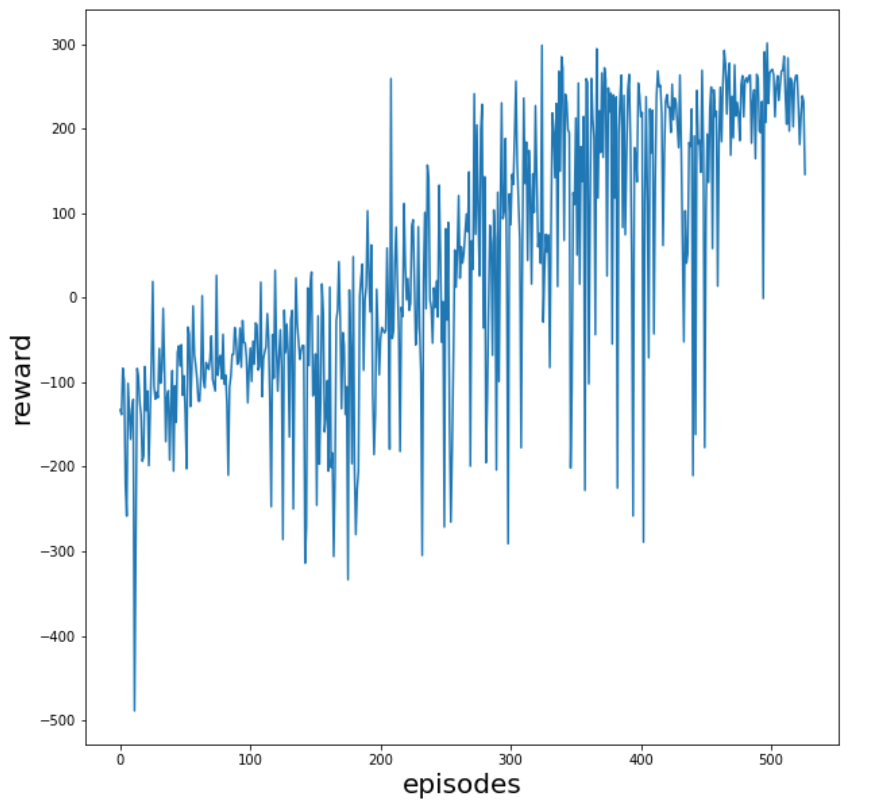
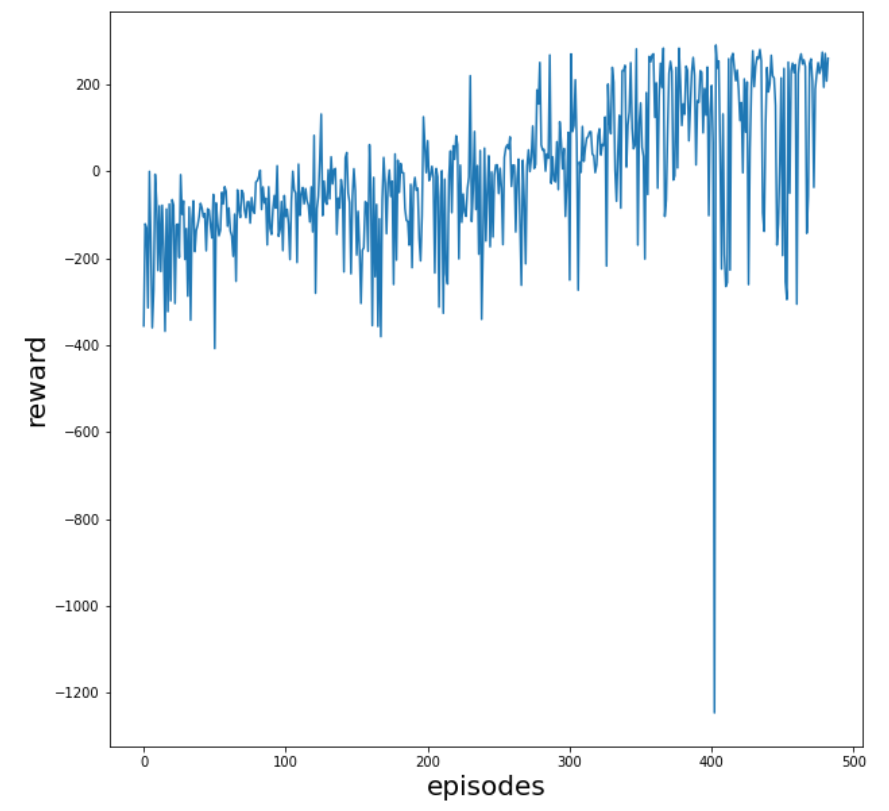
update graph

diff --git a/readme.md b/readme.md
@@ -1,5 +1,7 @@
 # Mini Projet 4 IAT : Deep Reinforcement Learning
 
+[![Open In Colab](https://colab.research.google.com/assets/colab-badge.svg)](https://colab.research.google.com/github/aballiet/RL-LunarLander-v2/)
+
 Pendant les cours d'IAT (Intelligence Artificielle pour les Télécoms), nous avons abordé les approches d'apprentissage par renforcement à travers les cours de Jilles DIBANGOYE et les travaux dirigés de Mathieu GOUTAY. 
 
 Ces approches, notamment avec le **Q-Learning** permettent d'apprendre les actions à prendre, à partir d'expériences, de façon à optimiser une récompense quantitative au cours du temps. 
@@ -13,6 +15,8 @@ Le but de ce projet est de faire atterrir une fusée sur la lune en contrôlant 
 <p align="center">
     <img  src="./ressources/landing.gif"  alt="lunar_environnement" width="500">
 </p>
+
+> Résultat obtenu après 391 épisodes d'apprentissage avec un double DQN
 
 L'environnement est donné par [gym](https://gym.openai.com/) avec [LunarLander-v2](https://gym.openai.com/envs/LunarLander-v2/) et intègre déjà le système de récompense (rewards) de nos actions.
 
@@ -43,7 +47,7 @@ for episode in range(nb_episodes):
     state = env.sense()	# retrieve initial state
     
     for step in range(nb_steps):
-        
+
         # predict best action according to state 
         action = predict(state)
         
@@ -81,20 +85,19 @@ Ici on utilise un réseau à 3 couches :
 ```python
 #Create and initialize the online DQN
 	self.DQN_online = tf.keras.models.Sequential([
-		Dense(512, activation='relu'),
+	    Dense(512, activation='relu'),
         Dense(256, activation='relu'),
         Dense(self.nb_actions, activation='linear')
     ])
     
     #Build the model to create the weights
     self.DQN_online.build(input_shape=(None, self.state_size)) 
-    self.DQN_online.compile(loss='mse',		   		 optimizer=tf.keras.optimizers.Adam(self.learning_rate))
+    self.DQN_online.compile(loss='mse', optimizer=tf.keras.optimizers.Adam(self.learning_rate))
 ```
 
 <p align="center">
     <img src="./ressources/model.png" alt="Bellman_optimality_equation" width=500 />
 </p>
-
 
 Les 3 couches sont fully-connected : les neurones de deux couches successives sont tous interconnectés entre eux. 
 
@@ -123,7 +126,9 @@ actions = self.DQN_online(state)
 return np.argmax(actions)
 ```
 
-### Target
+### Simple DQN
+
+[![Open In Colab](https://colab.research.google.com/assets/colab-badge.svg)](https://colab.research.google.com/github/aballiet/RL-LunarLander-v2/blob/master/RL_Simple_DQN_LunarLander_v2.ipynb)
 
 Afin d'entrainer notre NN, on procède comme suit
 
@@ -136,10 +141,10 @@ max_pred_q_values = np.amax(pred_q_values, axis=1)
 
 2. La nouvelle target est calculée à partir de l'équation d'optimalité de Bellman  :
 <p align="center">
-    <img src="./ressources/bellman_equation.png" alt="Bellman_optimality_equation" width=300 />
+    <img src="./ressources/bellman_equation.png" alt="Bellman_optimality_equation" width=400 />
 </p>
 
-   On obtient par la suite
+On obtient par la suite :
 
 <p align="center">
     <img align="center" src="./ressources/formula.png" alt="formula" width=300 />
@@ -149,6 +154,8 @@ max_pred_q_values = np.amax(pred_q_values, axis=1)
 targets = rewards + self.gamma * (max_pred_q_values) * (1 - end_boolean)
 target_vec = self.DQN_online(states_vec)
 ```
+
+>L'entraînement est automatiquement arrêté lorsqu' on obtient 10 épisodes consécutifs avec un reward supérieur à **180**.
 
 ## Résultats
 
@@ -172,6 +179,8 @@ Beaucoup de pistes restent à explorer afin d'obtenir de meilleurs résultats
 
 ## Double DQN
 
+[![Open In Colab](https://colab.research.google.com/assets/colab-badge.svg)](https://colab.research.google.com/github/aballiet/RL-LunarLander-v2/blob/master/RL_Double_DQN_LunarLander_v2.ipynb)
+
 Afin de stabiliser l'aprentissage, on peut utilsier une deuxième NN identique au premier.
 
 Ils ont chacun leur rôle :
@@ -186,12 +195,19 @@ Ils ont chacun leur rôle :
     <img align="center" src="./ressources/graph_double.png" width=500 />
 </p>
 
+Au bout d'un peu moins de 391, l'entraînement est terminé. C'est mieux que le Simple DQN avec les 482 épisodes nécessaires.
+
+
 Comparaison Simple/Double DQN
 
 
 <p align="center">
     <img align="center" src="./ressources/simple_double_DQN_comparison.svg" width=700 />
 </p>
+
+Si l'apprentissage est plus rapide avec un reward élévé stable plus rapidement, l'instabilité demeure avec d'importantes variations du reward qui correspondent à des états nouveaux atteints avec l'aléatoire de la politique epsilon greedy.
+
+Une amélioration possible consiste à appliquer le **Prioritized Experience Replay**.
 
 
 # Sources
